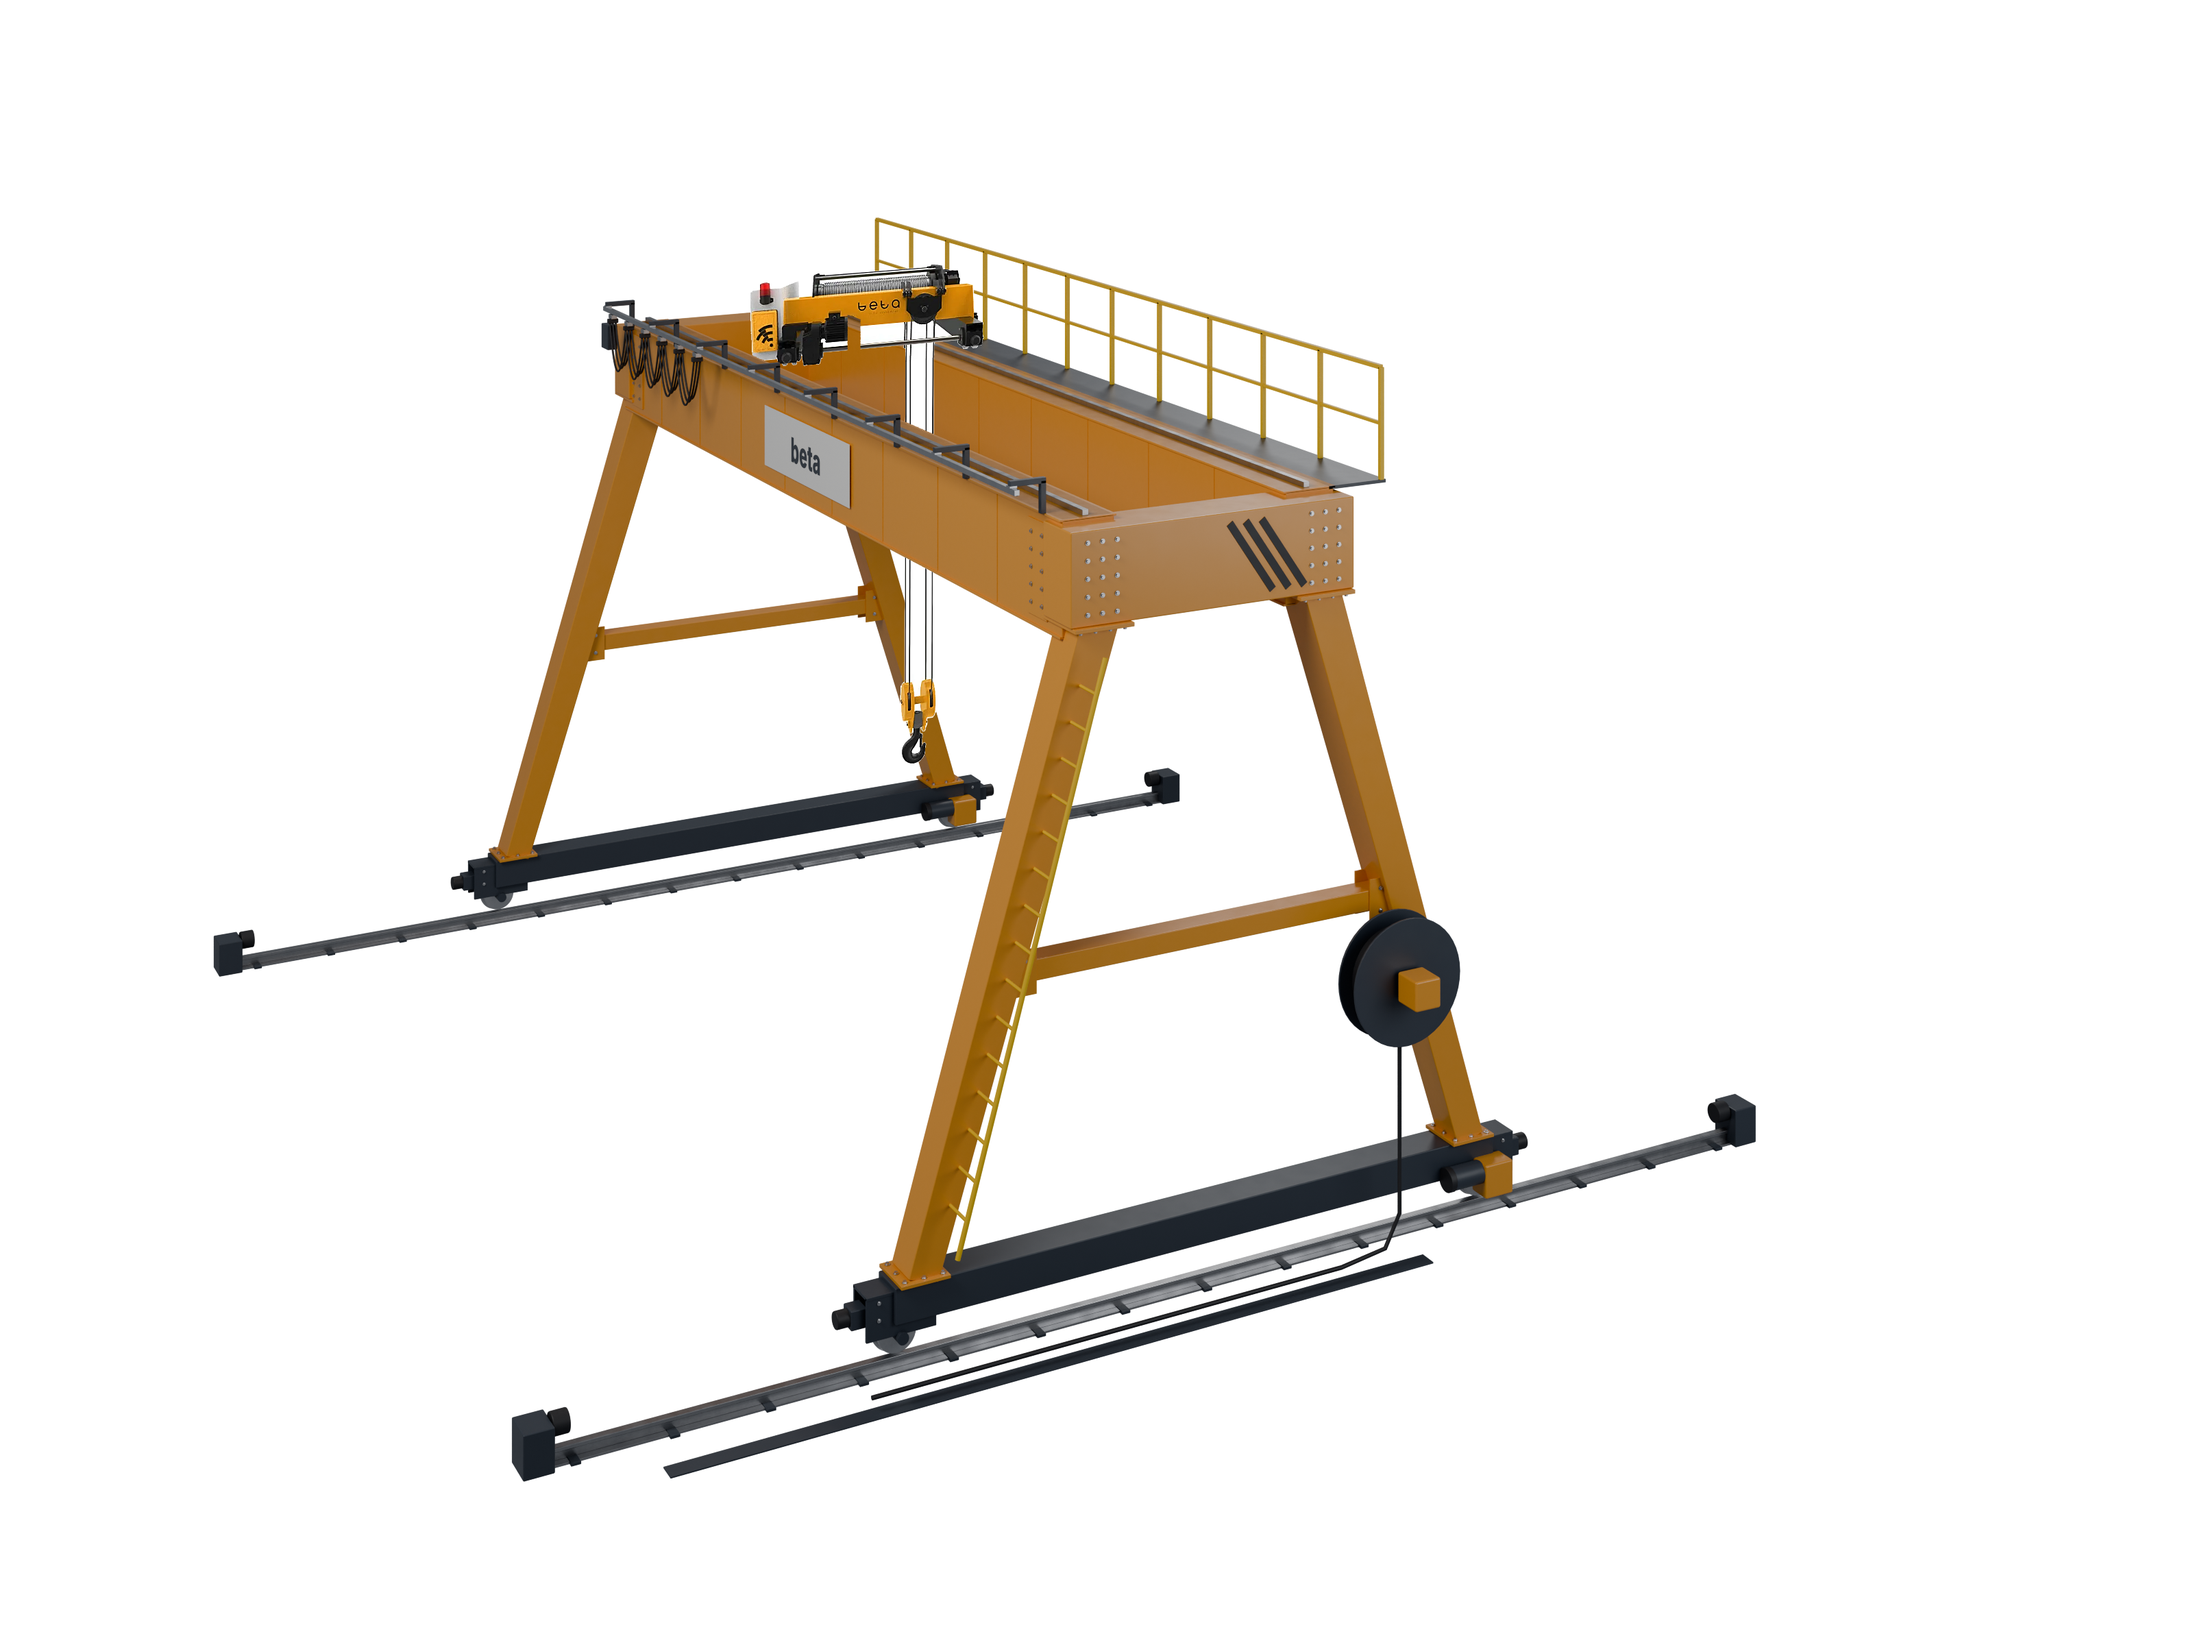
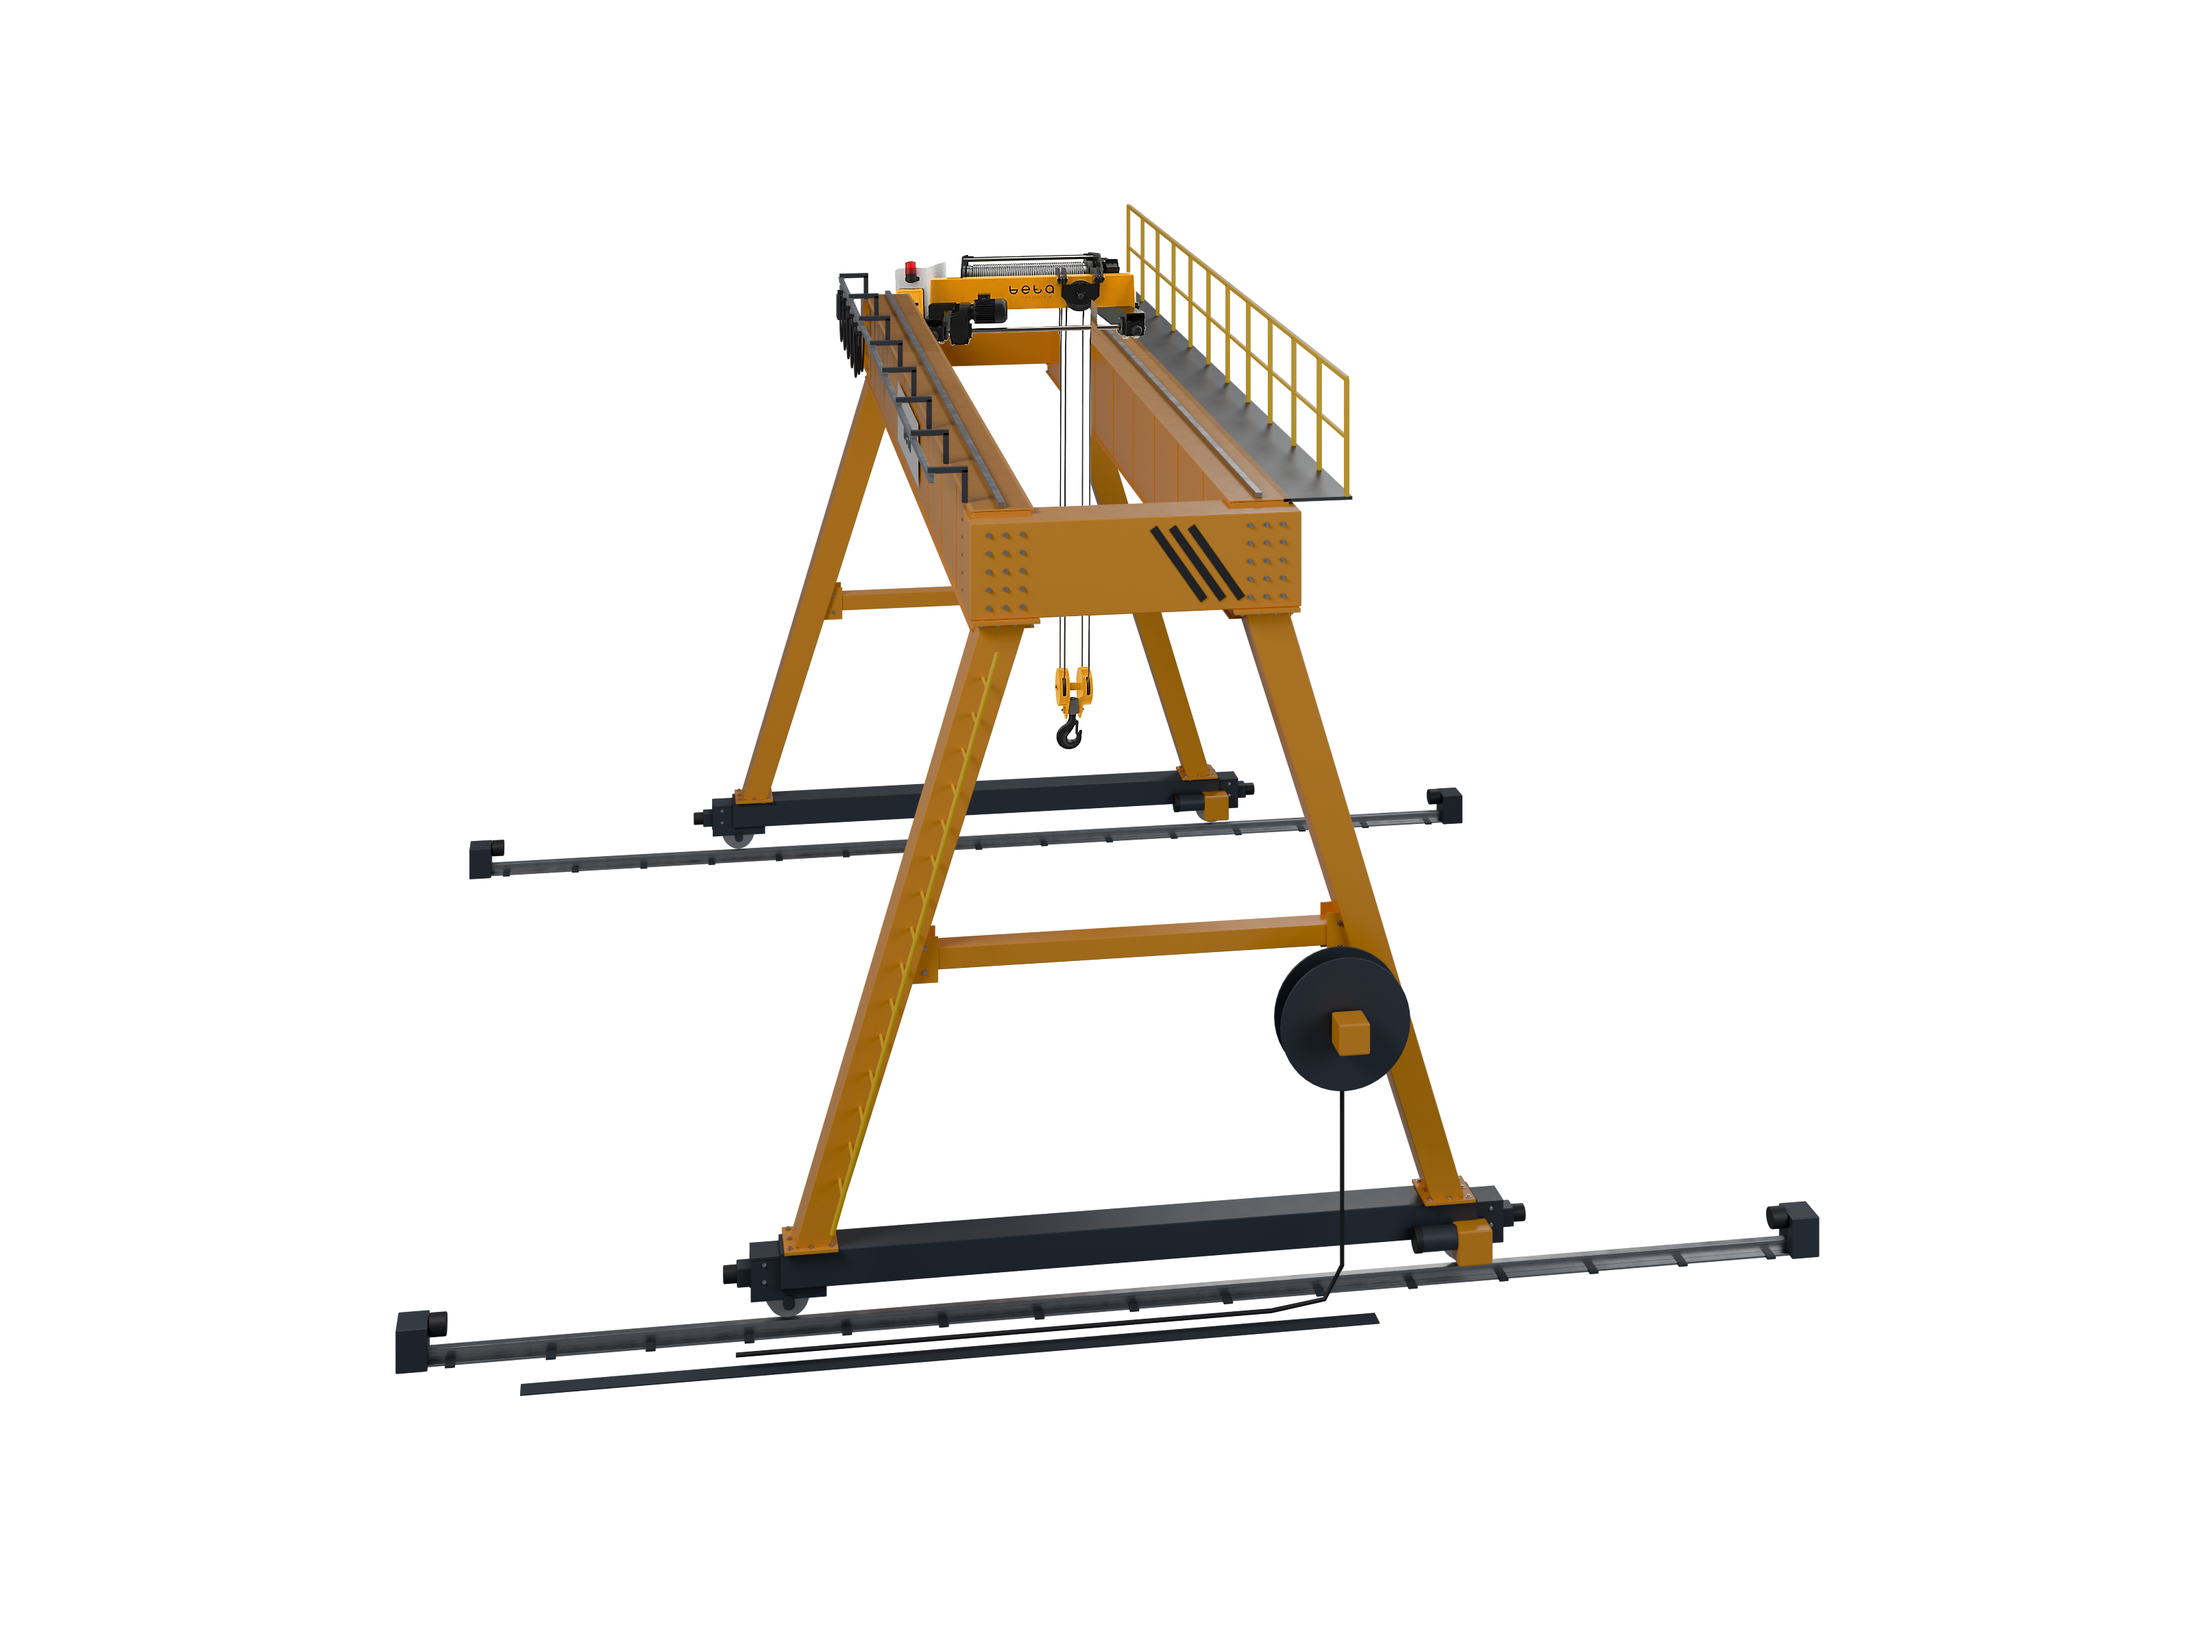
Brüt beton dokusu belirginleştirildi; final görseller
Claude-Session: https://claude.ai/code/session_01BwJWWo6Yo4AefWjfCSnerb

Changed region(s): [[0.0938, 0.125, 0.8438, 0.9062]]

diff --git a/kaynak/render_vincler.py b/kaynak/render_vincler.py
@@ -114,8 +114,8 @@ def beton_dokusu(name="beton_kolon"):
     n1.inputs["Roughness"].default_value = 0.6
     L.new(tc.outputs["Object"], n1.inputs["Vector"])
     r1 = nt.nodes.new("ShaderNodeValToRGB")
-    r1.color_ramp.elements[0].color = srgb("#8E8C87")
-    r1.color_ramp.elements[1].color = srgb("#B3B0A9")
+    r1.color_ramp.elements[0].color = srgb("#77746E")
+    r1.color_ramp.elements[1].color = srgb("#BAB6AE")
     L.new(n1.outputs["Fac"], r1.inputs["Fac"])
     # düşey akma lekeleri (Z yönünde uzatılmış gürültü)
     mp = nt.nodes.new("ShaderNodeMapping")
@@ -128,9 +128,9 @@ def beton_dokusu(name="beton_kolon"):
     mx1 = nt.nodes.new("ShaderNodeMix")
     mx1.data_type = "RGBA"
     mx1.blend_type = "MULTIPLY"
-    mx1.inputs["Factor"].default_value = 0.22
+    mx1.inputs["Factor"].default_value = 0.4
     L.new(r1.outputs["Color"], mx1.inputs["A"])
-    L.new(n2.outputs["Color"], mx1.inputs["B"])
+    L.new(n2.outputs["Fac"], mx1.inputs["B"])
     # kalıp tahtası izleri (yatay bantlar, 15 cm)
     wv = nt.nodes.new("ShaderNodeTexWave")
     wv.wave_type = "BANDS"
@@ -142,11 +142,11 @@ def beton_dokusu(name="beton_kolon"):
     # gözenekler (küçük koyu boşluklar)
     vr = nt.nodes.new("ShaderNodeTexVoronoi")
     vr.feature = "F1"
-    vr.inputs["Scale"].default_value = 140.0
+    vr.inputs["Scale"].default_value = 16.0
     L.new(tc.outputs["Object"], vr.inputs["Vector"])
     gz = nt.nodes.new("ShaderNodeMapRange")
     gz.inputs["From Min"].default_value = 0.0
-    gz.inputs["From Max"].default_value = 0.09
+    gz.inputs["From Max"].default_value = 0.11
     gz.inputs["To Min"].default_value = 0.0
     gz.inputs["To Max"].default_value = 1.0
     L.new(vr.outputs["Distance"], gz.inputs["Value"])
@@ -162,7 +162,13 @@ def beton_dokusu(name="beton_kolon"):
     L.new(gz.outputs["Result"], mx3.inputs["Factor"])
     mx3.inputs["A"].default_value = (0.22, 0.22, 0.21, 1)
     L.new(mx1.outputs["Result"], mx3.inputs["B"])
-    L.new(mx3.outputs["Result"], bs.inputs["Base Color"])
+    mx4 = nt.nodes.new("ShaderNodeMix")
+    mx4.data_type = "RGBA"
+    mx4.blend_type = "MULTIPLY"
+    mx4.inputs["Factor"].default_value = 0.12
+    L.new(mx3.outputs["Result"], mx4.inputs["A"])
+    L.new(wv.outputs["Fac"], mx4.inputs["B"])
+    L.new(mx4.outputs["Result"], bs.inputs["Base Color"])
     bs.inputs["Roughness"].default_value = 0.9
     # kabartı: gözenek + ince kum + kalıp izi
     n3 = nt.nodes.new("ShaderNodeTexNoise")
@@ -170,16 +176,16 @@ def beton_dokusu(name="beton_kolon"):
     n3.inputs["Detail"].default_value = 4
     L.new(tc.outputs["Object"], n3.inputs["Vector"])
     b1 = nt.nodes.new("ShaderNodeBump")
-    b1.inputs["Strength"].default_value = 0.25
+    b1.inputs["Strength"].default_value = 0.45
     b1.inputs["Distance"].default_value = 0.001
     L.new(n3.outputs["Fac"], b1.inputs["Height"])
     b2 = nt.nodes.new("ShaderNodeBump")
-    b2.inputs["Strength"].default_value = 0.6
-    b2.inputs["Distance"].default_value = 0.002
+    b2.inputs["Strength"].default_value = 1.0
+    b2.inputs["Distance"].default_value = 0.004
     L.new(gz.outputs["Result"], b2.inputs["Height"])
     L.new(b1.outputs["Normal"], b2.inputs["Normal"])
     b3 = nt.nodes.new("ShaderNodeBump")
-    b3.inputs["Strength"].default_value = 0.12
+    b3.inputs["Strength"].default_value = 0.35
     b3.inputs["Distance"].default_value = 0.002
     L.new(wv.outputs["Fac"], b3.inputs["Height"])
     L.new(b2.outputs["Normal"], b3.inputs["Normal"])
